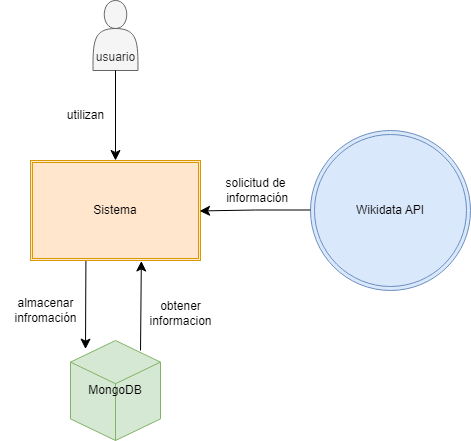
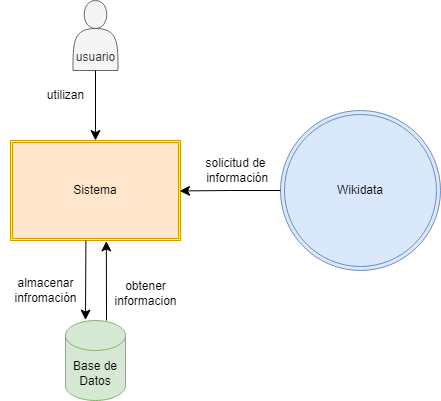
Updates

diff --git a/index.html b/index.html
@@ -4,7 +4,7 @@
 <meta charset="UTF-8">
 <meta http-equiv="X-UA-Compatible" content="IE=edge">
 <meta name="viewport" content="width=device-width, initial-scale=1.0">
-<meta name="generator" content="Asciidoctor 2.0.21">
+<meta name="generator" content="Asciidoctor 2.0.20">
 <title>Documentación wiq_es05a</title>
 <link rel="stylesheet" href="https://fonts.googleapis.com/css?family=Open+Sans:300,300italic,400,400italic,600,600italic%7CNoto+Serif:400,400italic,700,700italic%7CDroid+Sans+Mono:400,700">
 <style>
@@ -140,7 +140,7 @@ p a>code:hover{color:rgba(0,0,0,.9)}
 #content::before{content:none}
 #header>h1:first-child{color:rgba(0,0,0,.85);margin-top:2.25rem;margin-bottom:0}
 #header>h1:first-child+#toc{margin-top:8px;border-top:1px solid #dddddf}
-#header>h1:only-child{border-bottom:1px solid #dddddf;padding-bottom:8px}
+#header>h1:only-child,body.toc2 #header>h1:nth-last-child(2){border-bottom:1px solid #dddddf;padding-bottom:8px}
 #header .details{border-bottom:1px solid #dddddf;line-height:1.45;padding-top:.25em;padding-bottom:.25em;padding-left:.25em;color:rgba(0,0,0,.6);display:flex;flex-flow:row wrap}
 #header .details span:first-child{margin-left:-.125em}
 #header .details span.email a{color:rgba(0,0,0,.85)}
@@ -162,7 +162,6 @@ p a>code:hover{color:rgba(0,0,0,.9)}
 #toctitle{color:#7a2518;font-size:1.2em}
 @media screen and (min-width:768px){#toctitle{font-size:1.375em}
 body.toc2{padding-left:15em;padding-right:0}
-body.toc2 #header>h1:nth-last-child(2){border-bottom:1px solid #dddddf;padding-bottom:8px}
 #toc.toc2{margin-top:0!important;background:#f8f8f7;position:fixed;width:15em;left:0;top:0;border-right:1px solid #e7e7e9;border-top-width:0!important;border-bottom-width:0!important;z-index:1000;padding:1.25em 1em;height:100%;overflow:auto}
 #toc.toc2 #toctitle{margin-top:0;margin-bottom:.8rem;font-size:1.2em}
 #toc.toc2>ul{font-size:.9em;margin-bottom:0}
@@ -328,7 +327,7 @@ a.image{text-decoration:none;display:inline-block}
 a.image object{pointer-events:none}
 sup.footnote,sup.footnoteref{font-size:.875em;position:static;vertical-align:super}
 sup.footnote a,sup.footnoteref a{text-decoration:none}
-sup.footnote a:active,sup.footnoteref a:active,#footnotes .footnote a:first-of-type:active{text-decoration:underline}
+sup.footnote a:active,sup.footnoteref a:active{text-decoration:underline}
 #footnotes{padding-top:.75em;padding-bottom:.75em;margin-bottom:.625em}
 #footnotes hr{width:20%;min-width:6.25em;margin:-.25em 0 .75em;border-width:1px 0 0}
 #footnotes .footnote{padding:0 .375em 0 .225em;line-height:1.3334;font-size:.875em;margin-left:1.2em;margin-bottom:.2em}
@@ -495,10 +494,10 @@ body.book #toc,body.book #preamble,body.book h1.sect0,body.book .sect1>h2{page-b
 </ul>
 </li>
 <li><a href="#section-design-decisions">9. Architecture Decisions</a></li>
-<li><a href="#section-quality-scenarios">10. Quality Requirements</a>
+<li><a href="#section-quality-scenarios">10. Requerimientos de Calidad</a>
 <ul class="sectlevel2">
-<li><a href="#_quality_tree">10.1. Quality Tree</a></li>
-<li><a href="#_quality_scenarios">10.2. Quality Scenarios</a></li>
+<li><a href="#_árbol_de_calidad">10.1. Árbol de Calidad</a></li>
+<li><a href="#_escenarios_de_calidad">10.2. Escenarios de Calidad</a></li>
 </ul>
 </li>
 <li><a href="#section-technical-risks">11. Riesgos y Deudas Técnicas</a>
@@ -522,20 +521,6 @@ body.book #toc,body.book #preamble,body.book h1.sect0,body.book .sect1>h2{page-b
 	.arc42help {display:none;}
 }
 </style>
-<div class="paragraph">
-<p><strong>About arc42</strong></p>
-</div>
-<div class="paragraph lead">
-<p>arc42, the template for documentation of software and system architecture.</p>
-</div>
-<div class="paragraph">
-<p>Template Version 8.2 EN. (based upon AsciiDoc version), January 2023</p>
-</div>
-<div class="paragraph">
-<p>Created, maintained and &#169; by Dr. Peter Hruschka, Dr. Gernot Starke and contributors.
-See <a href="https://arc42.org" class="bare">https://arc42.org</a>.</p>
-</div>
-<hr>
 <div class="sidebarblock arc42help">
 <div class="content">
 <div class="admonitionblock note">
@@ -626,7 +611,7 @@ If requirements documents exist this overview should refer to these documents.</
 <div class="ulist">
 <ul>
 <li>
-<p>Los usuarios podrá registrarse en la aplicación.</p>
+<p>Los usuarios podrán registrarse en la aplicación.</p>
 </li>
 <li>
 <p>Los ususarios registrados podrán iniciar su sesión en la aplicación.</p>
@@ -635,7 +620,20 @@ If requirements documents exist this overview should refer to these documents.</
 <p>Los usuarios registrados podrán jugar.</p>
 </li>
 <li>
-<p>Los usuarios registrados podrán consultar su historial de participación: número de juegos, preguntas acertadas/falladas, tiempos, etc.</p>
+<p>Los usuarios registrados podrán consultar su historial de participación</p>
+<div class="ulist">
+<ul>
+<li>
+<p>Número de juegos</p>
+</li>
+<li>
+<p>Preguntas acertadas/falladas</p>
+</li>
+<li>
+<p>Tiempo de respuesta y partida</p>
+</li>
+</ul>
+</div>
 </li>
 </ul>
 </div>
@@ -677,8 +675,8 @@ If you as an architect do not know how the quality of your work will be judged&#
 </colgroup>
 <tbody>
 <tr>
-<td class="tableblock halign-left valign-top"><p class="tableblock">Nombre</p></td>
-<td class="tableblock halign-left valign-top"><p class="tableblock">Descripción</p></td>
+<td class="tableblock halign-left valign-top"><p class="tableblock"><strong>Nombre</strong></p></td>
+<td class="tableblock halign-left valign-top"><p class="tableblock"><strong>Descripción</strong></p></td>
 </tr>
 <tr>
 <td class="tableblock halign-left valign-top"><p class="tableblock">Usabilidad</p></td>
@@ -997,8 +995,8 @@ The title of the table is the name of your system, the three columns contain the
 <td class="tableblock halign-left valign-top"><p class="tableblock"><em><em>Contiene el frontend y backend de la aplicación.</em></em></p></td>
 </tr>
 <tr>
-<td class="tableblock halign-left valign-top"><p class="tableblock"><em><strong>MongoDB</strong></em></p></td>
-<td class="tableblock halign-left valign-top"><p class="tableblock"><em><em>Base de datos para almacenar la información de los usuarios.</em></em></p></td>
+<td class="tableblock halign-left valign-top"><p class="tableblock"><em><strong>Base de Datos</strong></em></p></td>
+<td class="tableblock halign-left valign-top"><p class="tableblock"><em><em>Almacenamiento principal del sistema.</em></em></p></td>
 </tr>
 <tr>
 <td class="tableblock halign-left valign-top"><p class="tableblock"><em><strong>Usuario</strong></em></p></td>
@@ -1035,6 +1033,52 @@ together with a mapping table showing the relationships between channels and inp
 <img src="./images/03_2_contexto_tecnico.png" alt="Diagrama de contexto técnico">
 </div>
 </div>
+<table class="tableblock frame-all grid-all stretch">
+<colgroup>
+<col style="width: 50%;">
+<col style="width: 50%;">
+</colgroup>
+<thead>
+<tr>
+<th class="tableblock halign-left valign-top">Componentes</th>
+<th class="tableblock halign-left valign-top">Explicación</th>
+</tr>
+</thead>
+<tbody>
+<tr>
+<td class="tableblock halign-left valign-top"><p class="tableblock"><strong>Sistema</strong></p></td>
+<td class="tableblock halign-left valign-top"><p class="tableblock"><em>Contiene el frontend y backend de la aplicación.</em></p></td>
+</tr>
+<tr>
+<td class="tableblock halign-left valign-top"><p class="tableblock"><strong>MongoDB</strong></p></td>
+<td class="tableblock halign-left valign-top"><p class="tableblock"><em>Base de datos no relacional para el almacenamiento de usuarios.</em></p></td>
+</tr>
+<tr>
+<td class="tableblock halign-left valign-top"><p class="tableblock"><strong>Usuario</strong></p></td>
+<td class="tableblock halign-left valign-top"><p class="tableblock"><em>Los usuarios que interactuaran con la aplicación.</em></p></td>
+</tr>
+<tr>
+<td class="tableblock halign-left valign-top"><p class="tableblock"><strong>Wikidata API</strong></p></td>
+<td class="tableblock halign-left valign-top"><p class="tableblock"><em>API de donde obtendremos las preguntas y respuesta correcta para el juego de la aplicación.</em></p></td>
+</tr>
+<tr>
+<td class="tableblock halign-left valign-top"><p class="tableblock"><strong>Javascript</strong></p></td>
+<td class="tableblock halign-left valign-top"><p class="tableblock"><em>Lenguaje de programación principal de la aplicación.</em></p></td>
+</tr>
+<tr>
+<td class="tableblock halign-left valign-top"><p class="tableblock"><strong>Express JS</strong></p></td>
+<td class="tableblock halign-left valign-top"><p class="tableblock"><em>Framework para la creación de aplicaciones web en Javascript, utilizado en el backend.</em></p></td>
+</tr>
+<tr>
+<td class="tableblock halign-left valign-top"><p class="tableblock"><strong>React</strong></p></td>
+<td class="tableblock halign-left valign-top"><p class="tableblock"><em>Biblioteca de Javascript para creación de interfaces de usuario, utilizado en el frontend.</em></p></td>
+</tr>
+<tr>
+<td class="tableblock halign-left valign-top"><p class="tableblock"><strong>Firebase</strong></p></td>
+<td class="tableblock halign-left valign-top"><p class="tableblock"><em>Plataforma de desarrollo de Google, se utiliza en el login del sistema.</em></p></td>
+</tr>
+</tbody>
+</table>
 <div style="page-break-after: always;"></div>
 </div>
 </div>
@@ -1879,7 +1923,7 @@ There you will find links and examples about ADR.</p>
 </div>
 </div>
 <div class="sect1">
-<h2 id="section-quality-scenarios">10. Quality Requirements</h2>
+<h2 id="section-quality-scenarios">10. Requerimientos de Calidad</h2>
 <div class="sectionbody">
 <div class="sidebarblock arc42help">
 <div class="content">
@@ -1904,7 +1948,7 @@ concrete and measurable.</p>
 </div>
 </div>
 <div class="sect2">
-<h3 id="_quality_tree">10.1. Quality Tree</h3>
+<h3 id="_árbol_de_calidad">10.1. Árbol de Calidad</h3>
 <div class="sidebarblock arc42help">
 <div class="content">
 <div class="paragraph">
@@ -1934,9 +1978,14 @@ concrete and measurable.</p>
 </div>
 </div>
 </div>
+<div class="imageblock">
+<div class="content">
+<img src="./images/10_1_arbol-calidad.png" alt="Diagrama de árbol de calidad">
+</div>
+</div>
 </div>
 <div class="sect2">
-<h3 id="_quality_scenarios">10.2. Quality Scenarios</h3>
+<h3 id="_escenarios_de_calidad">10.2. Escenarios de Calidad</h3>
 <div class="sidebarblock arc42help">
 <div class="content">
 <div class="paragraph">
@@ -1975,6 +2024,46 @@ more precisely down to a level of scenarios that can be discussed and evaluated.
 </div>
 </div>
 </div>
+<table class="tableblock frame-all grid-all stretch">
+<colgroup>
+<col style="width: 25%;">
+<col style="width: 25%;">
+<col style="width: 25%;">
+<col style="width: 25%;">
+</colgroup>
+<tbody>
+<tr>
+<td class="tableblock halign-left valign-top"><p class="tableblock"><strong>Calidad</strong></p></td>
+<td class="tableblock halign-left valign-top"><p class="tableblock"><strong>Escenario</strong></p></td>
+<td class="tableblock halign-left valign-top"><p class="tableblock"><strong>Acciones de usuario</strong></p></td>
+<td class="tableblock halign-left valign-top"><p class="tableblock"><strong>Respuesta</strong></p></td>
+</tr>
+<tr>
+<td class="tableblock halign-left valign-top"><p class="tableblock">Usabilidad</p></td>
+<td class="tableblock halign-left valign-top"><p class="tableblock">Un usuario que nunca ha interactuado con la aplicación</p></td>
+<td class="tableblock halign-left valign-top"><p class="tableblock">El usuario quiere iniciar sesión y posteriormente jugar</p></td>
+<td class="tableblock halign-left valign-top"><p class="tableblock">La aplicación facilita al usuario iniciar/registrar en la aplicación y posteriormente se le muestra la opción para jugar de forma visual</p></td>
+</tr>
+<tr>
+<td class="tableblock halign-left valign-top"><p class="tableblock">Rendimiento</p></td>
+<td class="tableblock halign-left valign-top"><p class="tableblock">Un usario, un poco impaciente y ya registrado quiere jugar tranquilamente una partida</p></td>
+<td class="tableblock halign-left valign-top"><p class="tableblock">Empieza la partida y espera a que se procese la pregunta y respuestas</p></td>
+<td class="tableblock halign-left valign-top"><p class="tableblock">El sistema de obtención de preguntas es ágil y se muestra la pregunta con sus respuestas antes de que el usuario se canse de esperar</p></td>
+</tr>
+<tr>
+<td class="tableblock halign-left valign-top"><p class="tableblock">Testeable</p></td>
+<td class="tableblock halign-left valign-top"><p class="tableblock">Un desarrollador esta realizando una nueva funcionalidad del sistema, pero se equivoca y produce fallos en la aplicación</p></td>
+<td class="tableblock halign-left valign-top"><p class="tableblock">Igualmente realiza un commit en su rama con el objetivo de incorporar la nueva funcionalidad al sistema</p></td>
+<td class="tableblock halign-left valign-top"><p class="tableblock">Las pruebas automáticas detectan un error de programación e impide que el problema se propague a la aplicación funcional</p></td>
+</tr>
+<tr>
+<td class="tableblock halign-left valign-top"><p class="tableblock">Disponibilidad</p></td>
+<td class="tableblock halign-left valign-top"><p class="tableblock">Un usuario quiere jugar a las 03:00 AM</p></td>
+<td class="tableblock halign-left valign-top"><p class="tableblock">El usuario inicializa  la aplicación de forma estandar</p></td>
+<td class="tableblock halign-left valign-top"><p class="tableblock">La aplicación es funcional pese a no ser una hora habitual</p></td>
+</tr>
+</tbody>
+</table>
 <div style="page-break-after: always;"></div>
 </div>
 </div>
@@ -2146,13 +2235,27 @@ funcionalidades del proyecto.</em></em></p></td>
 </tr>
 </tbody>
 </table>
+<hr>
+<div class="paragraph">
+<p><strong>About arc42</strong></p>
+</div>
+<div class="paragraph lead">
+<p>arc42, the template for documentation of software and system architecture.</p>
+</div>
+<div class="paragraph">
+<p>Template Version 8.2 EN. (based upon AsciiDoc version), January 2023</p>
+</div>
+<div class="paragraph">
+<p>Created, maintained and &#169; by Dr. Peter Hruschka, Dr. Gernot Starke and contributors.
+See <a href="https://arc42.org" class="bare">https://arc42.org</a>.</p>
+</div>
 </div>
 </div>
 </div>
 <div id="footer">
 <div id="footer-text">
 Version 8.2 EN<br>
-Last updated 2024-02-22 14:02:56 +0100
+Last updated 2024-02-22 14:00:57 +0100
 </div>
 </div>
 </body>
